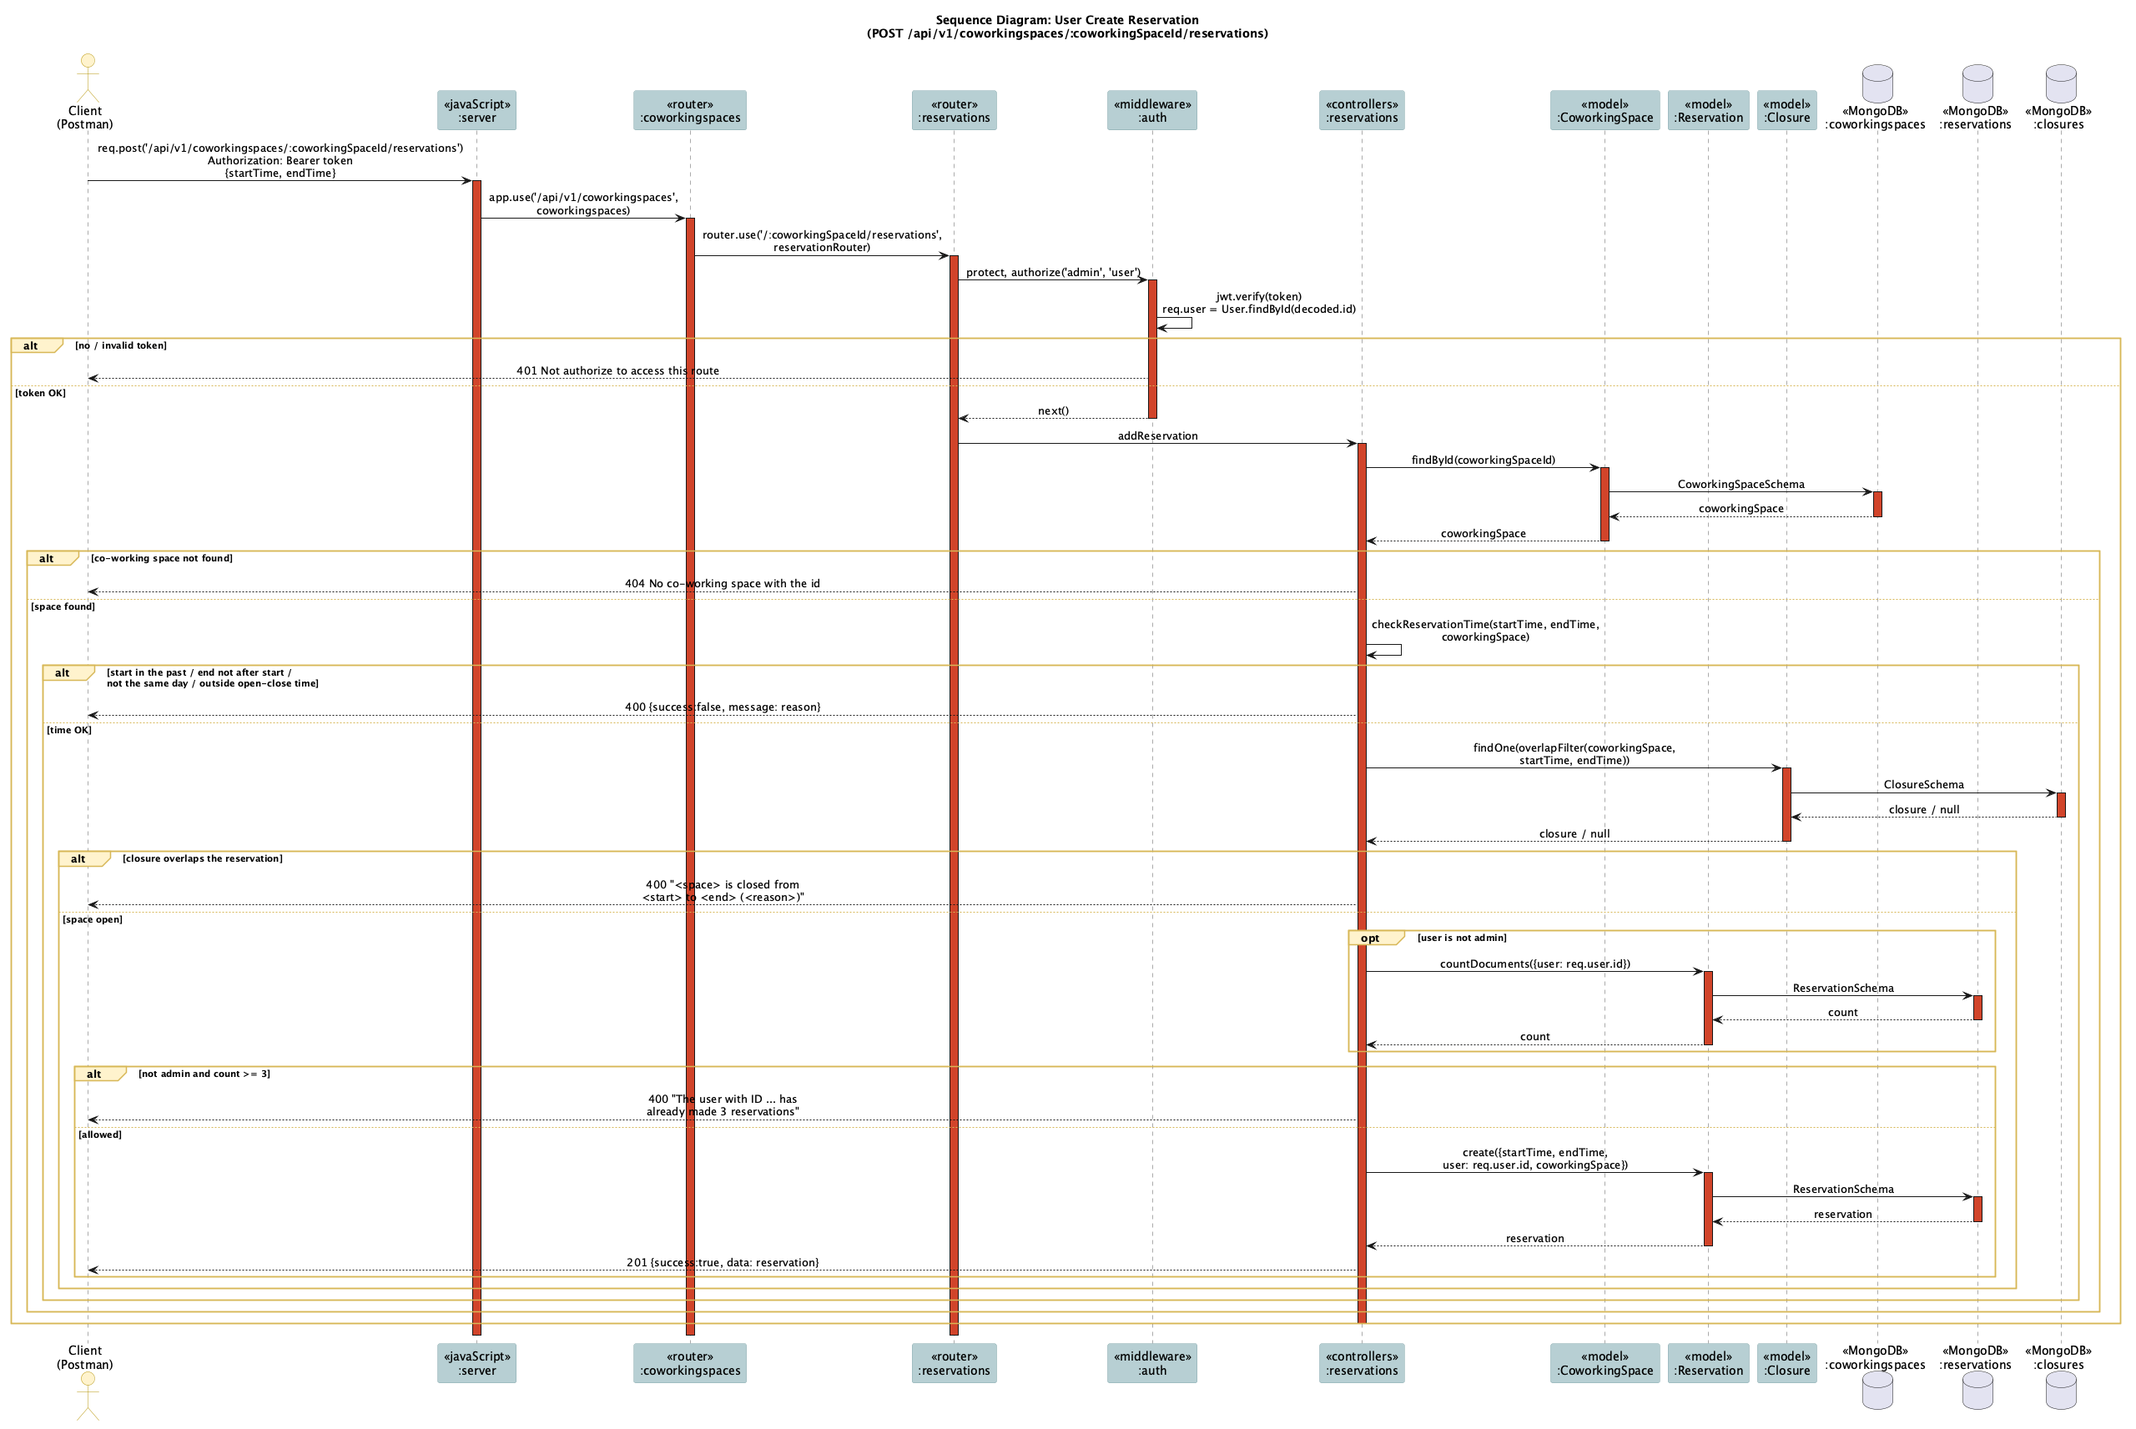
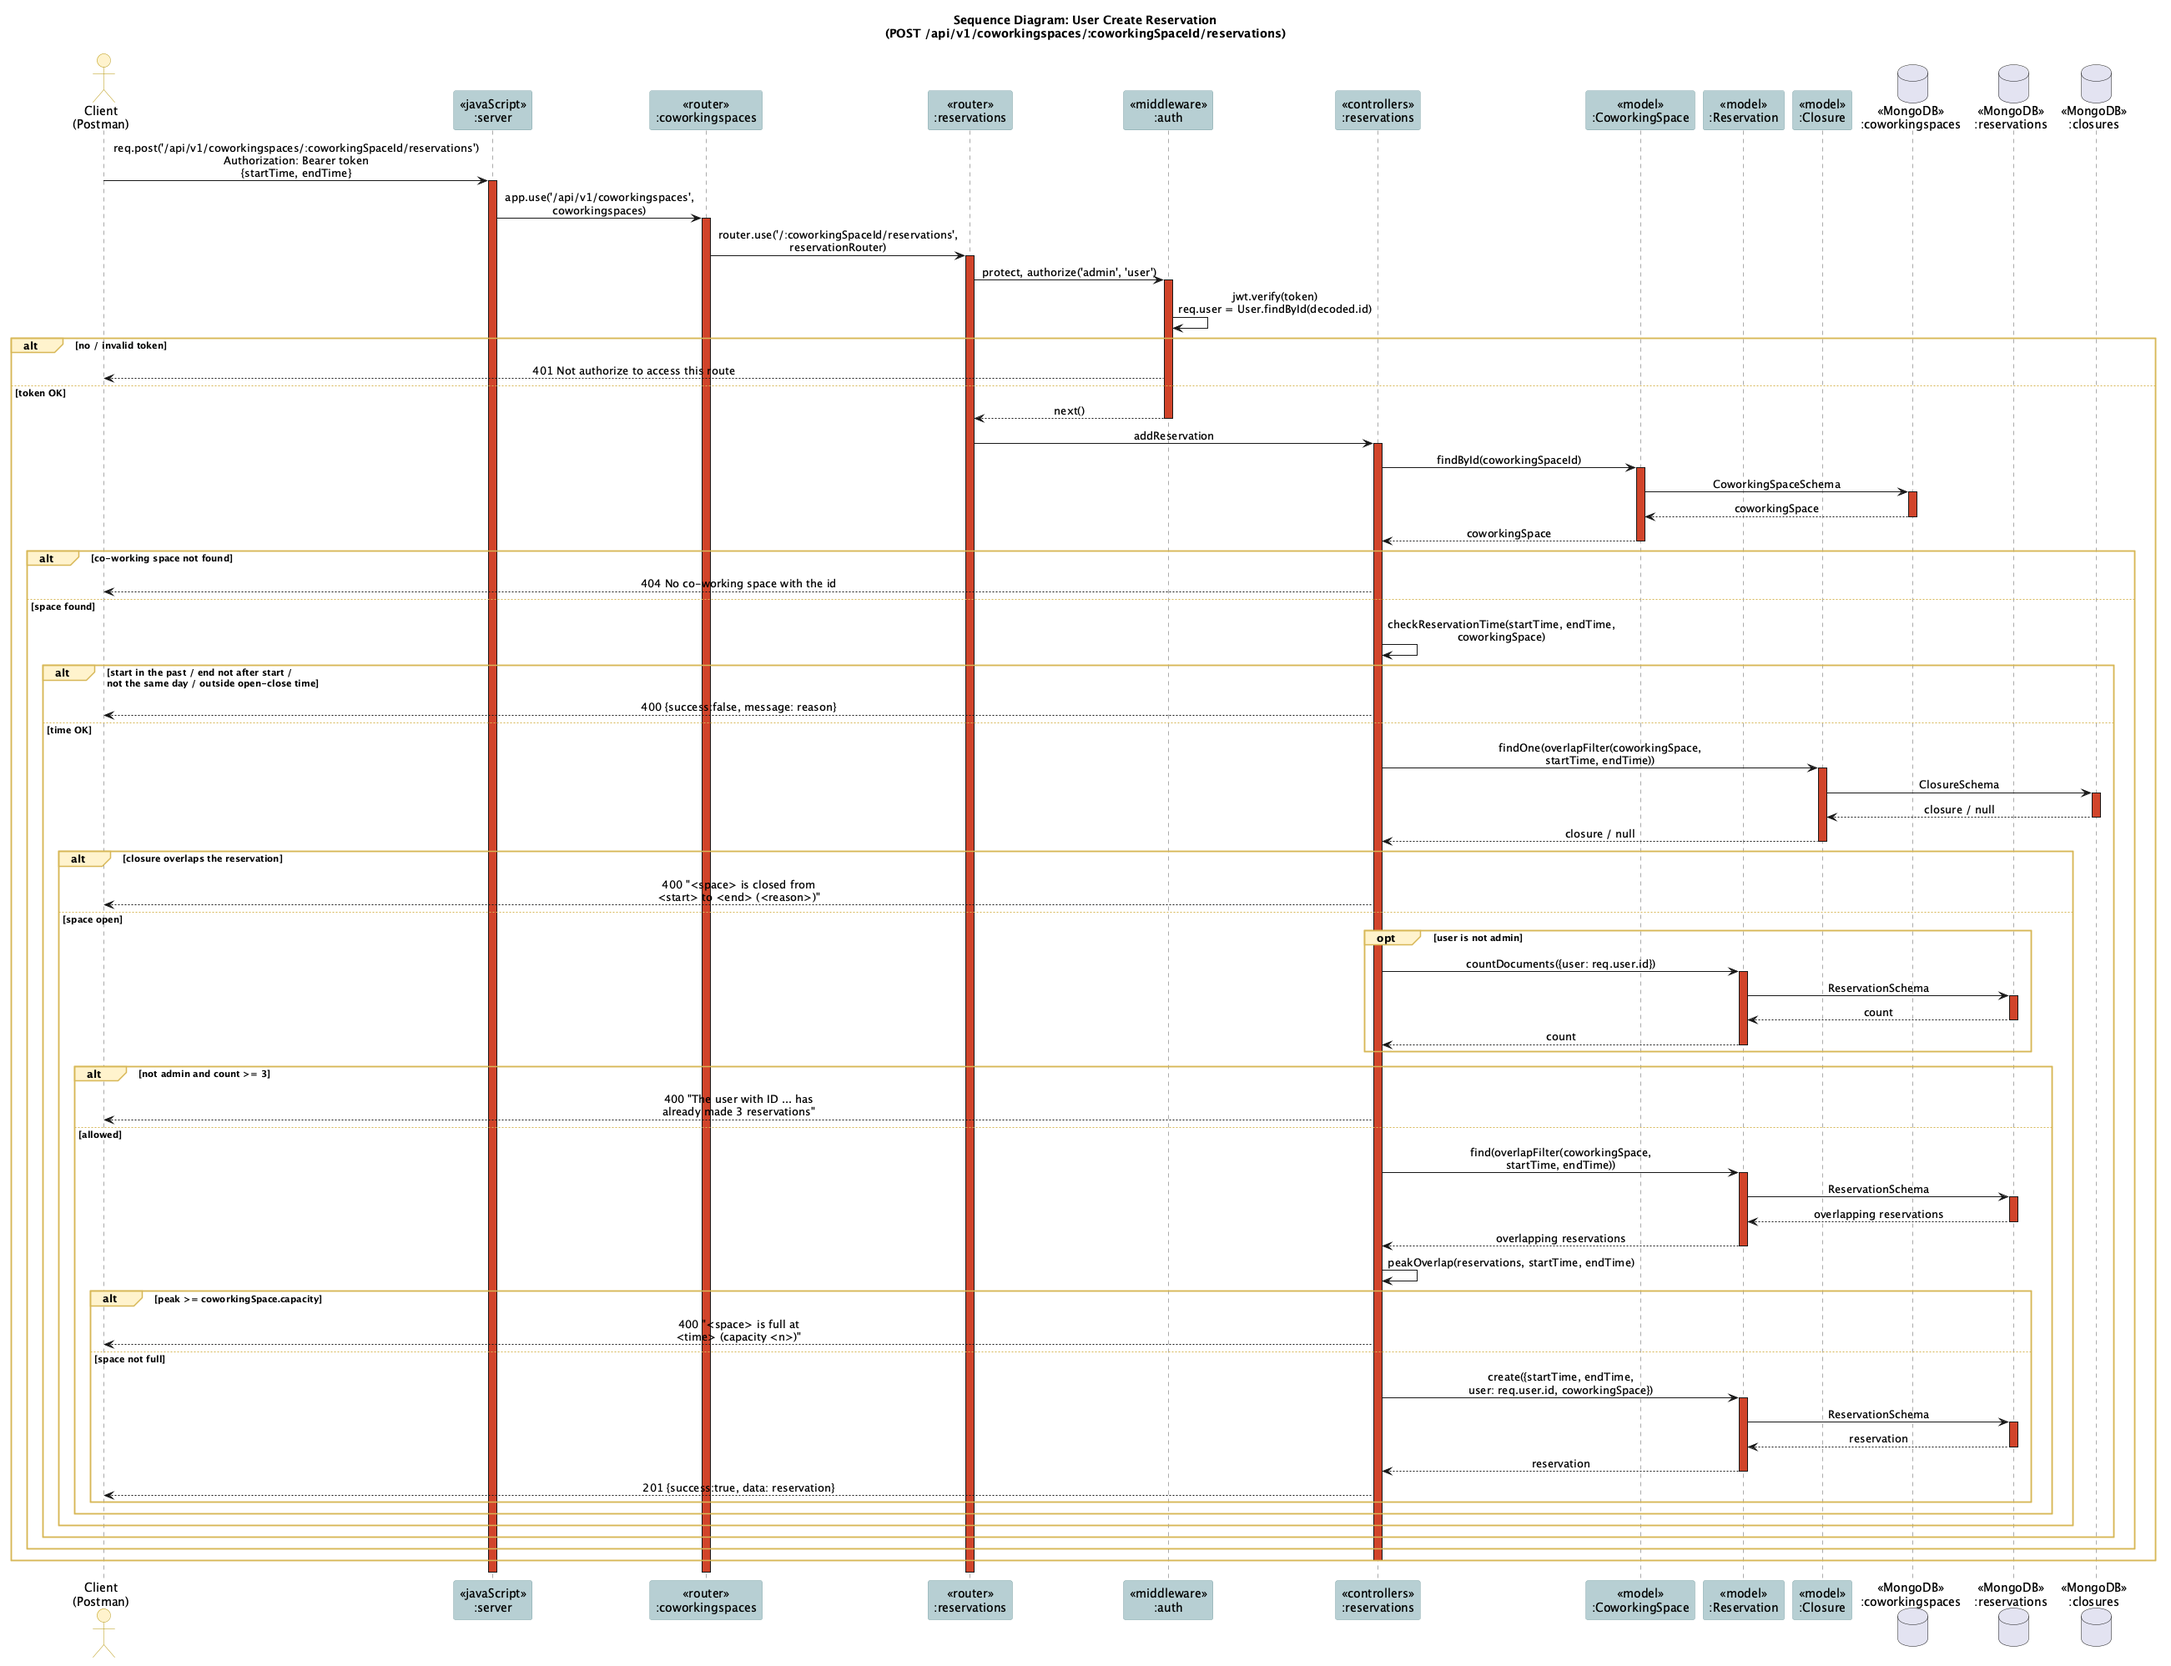
feat: add capacity to co-working spaces (#5)
* feat: add capacity to co-working spaces

* test: keep only the essential capacity tests

diff --git a/controllers/reservations.js b/controllers/reservations.js
@@ -4,6 +4,7 @@ const Closure = require("../models/Closure");
 const sendError = require("../utils/sendError");
 const { overlapFilter } = require("../utils/overlap");
 const { withSpaceLock } = require("../utils/spaceLock");
+const { findCapacityConflict } = require("../utils/capacity");
 const {
   checkReservationTime,
   formatBangkok,
@@ -151,17 +152,24 @@ exports.addReservation = async (req, res, next) => {
       }
     }
 
-    // The space must not be closed at any time during the reservation.
-    // The check and the create run under one lock (see utils/spaceLock.js).
+    // The space must not be closed or full at any time during the reservation.
+    // The checks and the create run under one lock (see utils/spaceLock.js).
     const result = await withSpaceLock(coworkingSpace._id, async (session) => {
-      const closureError = await findClosureConflict(
-        coworkingSpace,
-        startTime,
-        endTime,
-        session,
-      );
+      const conflict =
+        (await findClosureConflict(
+          coworkingSpace,
+          startTime,
+          endTime,
+          session,
+        )) ??
+        (await findCapacityConflict(
+          coworkingSpace,
+          startTime,
+          endTime,
+          session,
+        ));
 
-      if (closureError) return { error: closureError };
+      if (conflict) return { error: conflict };
 
       const [reservation] = await Reservation.create(
         [
@@ -233,17 +241,26 @@ exports.updateReservation = async (req, res, next) => {
       return res.status(400).json({ success: false, message: timeError });
     }
 
-    // The new space must not be closed at any time during the reservation.
-    // The check and the save run under one lock on the new space.
-    const closureError = await withSpaceLock(
+    // The new space must not be closed or full at any time during the
+    // reservation. This reservation does not count against the capacity.
+    // The checks and the save run under one lock on the new space.
+    const conflictError = await withSpaceLock(
       coworkingSpace._id,
       async (session) => {
-        const conflict = await findClosureConflict(
-          coworkingSpace,
-          startTime,
-          endTime,
-          session,
-        );
+        const conflict =
+          (await findClosureConflict(
+            coworkingSpace,
+            startTime,
+            endTime,
+            session,
+          )) ??
+          (await findCapacityConflict(
+            coworkingSpace,
+            startTime,
+            endTime,
+            session,
+            reservation._id,
+          ));
 
         if (conflict) return conflict;
 
@@ -255,8 +272,8 @@ exports.updateReservation = async (req, res, next) => {
       },
     );
 
-    if (closureError) {
-      return res.status(400).json({ success: false, message: closureError });
+    if (conflictError) {
+      return res.status(400).json({ success: false, message: conflictError });
     }
 
     await reservation.populate(populateSpace);

diff --git a/utils/capacity.js b/utils/capacity.js
@@ -1,0 +1,65 @@
+const Reservation = require("../models/Reservation");
+const { overlapFilter } = require("./overlap");
+const { formatBangkok } = require("./reservationTime");
+
+// The largest number of reservations that are active at the same time
+// inside [start, end), and the first time when that number starts.
+// A reservation that ends at time t and one that starts at t do not overlap,
+// so at the same time an end counts before a start.
+const peakOverlap = (reservations, start, end) => {
+  const events = [];
+
+  reservations.forEach((r) => {
+    const from = Math.max(r.startTime.getTime(), start.getTime());
+    const to = Math.min(r.endTime.getTime(), end.getTime());
+    events.push({ time: from, change: 1 }, { time: to, change: -1 });
+  });
+
+  events.sort((a, b) => a.time - b.time || a.change - b.change);
+
+  let active = 0;
+  let peak = 0;
+  let peakTime = null;
+
+  events.forEach((e) => {
+    active += e.change;
+    if (active > peak) {
+      peak = active;
+      peakTime = e.time;
+    }
+  });
+
+  return { peak, peakTime };
+};
+
+// Returns an error message when the space is full at some time in
+// [startTime, endTime), or null.
+// excludeId is the reservation that is being edited. It does not count.
+// Run it only after checkReservationTime, so that the dates are valid.
+// Run it inside withSpaceLock, with the same session as the write.
+exports.findCapacityConflict = async (
+  coworkingSpace,
+  startTime,
+  endTime,
+  session,
+  excludeId,
+) => {
+  // A space that was created before capacity existed has no limit
+  if (coworkingSpace.capacity == null) return null;
+
+  const start = new Date(startTime);
+  const end = new Date(endTime);
+
+  const filter = overlapFilter(coworkingSpace._id, start, end);
+  if (excludeId) filter._id = { $ne: excludeId };
+
+  const reservations = await Reservation.find(filter)
+    .select("startTime endTime")
+    .session(session);
+
+  const { peak, peakTime } = peakOverlap(reservations, start, end);
+
+  if (peak < coworkingSpace.capacity) return null;
+
+  return `${coworkingSpace.name} is full at ${formatBangkok(peakTime)} (capacity ${coworkingSpace.capacity})`;
+};

diff --git a/models/CoworkingSpace.js b/models/CoworkingSpace.js
@@ -33,6 +33,16 @@ const CoworkingSpaceSchema = new mongoose.Schema({
     required: [true, "Please add a close time"],
     match: [TIME_HHMM_REGEX, "Close time must be in HH:mm format (e.g. 20:00)"],
   },
+  // The maximum number of reservations that can overlap at the same time
+  capacity: {
+    type: Number,
+    required: [true, "Please add a capacity"],
+    min: [1, "Capacity must be at least 1"],
+    validate: {
+      validator: Number.isInteger,
+      message: "Capacity must be a whole number",
+    },
+  },
   // Written only by utils/spaceRating.js, after each review change.
   // averageRating is null when the space has no reviews.
   averageRating: {

diff --git a/tests/closure-race.js b/tests/closure-race.js
@@ -46,6 +46,7 @@ const runRounds = async (email, created) => {
     tel: "02-123-4567",
     openTime: "08:00",
     closeTime: "20:00",
+    capacity: 1,
   });
   if (space.status !== 201) throw new Error(`create space: ${space.status}`);
   const spaceId = space.json.data._id;

diff --git a/README.md b/README.md
@@ -8,7 +8,7 @@ Term project #6 for **2110503 Software Development Practice**: a REST API that l
 
 1. A user registers with a name, telephone number (Thai format), email and password.
 2. A registered user logs in with email and password, and can log out.
-3. After logging in, a user can reserve up to **3** times by choosing a date (with a start and end time) and a co-working space. The co-working space list is provided; each space has a name, address, telephone number and open-close time.
+3. After logging in, a user can reserve up to **3** times by choosing a date (with a start and end time) and a co-working space. The co-working space list is provided; each space has a name, address, telephone number, open-close time and capacity.
 4. A user can view, edit and delete **their own** reservations.
 5. An admin can view, edit and delete **any** reservation.
 
@@ -42,8 +42,8 @@ Base URL: `http://localhost:5050/api/v1`. Private routes need `Authorization: Be
 | GET | `/auth/logout` | Public | Clear the token cookie |
 | GET | `/coworkingspaces` | Public | List spaces (supports `select`, `sort`, `page`, `limit`, `gt/gte/lt/lte/in` filters) |
 | GET | `/coworkingspaces/:id` | Public | One space |
-| POST | `/coworkingspaces` | Admin | Create a space |
-| PUT | `/coworkingspaces/:id` | Admin | Update a space |
+| POST | `/coworkingspaces` | Admin | Create a space (`name`, `address`, `tel`, `openTime`, `closeTime`, `capacity`) |
+| PUT | `/coworkingspaces/:id` | Admin | Update a space, for example its `capacity` |
 | DELETE | `/coworkingspaces/:id` | Admin | Delete a space, its reservations, its closures and its reviews |
 | POST | `/coworkingspaces/:coworkingSpaceId/reservations` | User/Admin | Create a reservation (`startTime`, `endTime`) |
 | GET | `/coworkingspaces/:coworkingSpaceId/reservations` | Private | Reservations at one space (own only for users) |
@@ -63,6 +63,12 @@ Base URL: `http://localhost:5050/api/v1`. Private routes need `Authorization: Be
 | GET | `/reviews` | Public | All reviews, with the reviewer name and the space |
 | GET | `/reviews/:id` | Public | One review |
 | DELETE | `/reviews/:id` | Admin | Delete a review |
+
+Example co-working space body:
+
+```json
+{ "name": "Siam Co-Work Hub", "address": "254 Phayathai Rd, Pathum Wan, Bangkok 10330", "tel": "02-123-4567", "openTime": "08:00", "closeTime": "20:00", "capacity": 20 }
+```
 
 Example reservation body (times are Bangkok time):
 
@@ -84,7 +90,8 @@ Example review body:
 
 ### Rules and validation
 
-- **Reservation:** must start in the future, end after it starts, start and end on the same day, and fit inside the space's `openTime`-`closeTime`. It must not overlap a closure of its space. A general user can hold at most 3 reservations; admins have no limit.
+- **Reservation:** must start in the future, end after it starts, start and end on the same day, and fit inside the space's `openTime`-`closeTime`. It must not overlap a closure of its space, and the space must not be full at any time during it. A general user can hold at most 3 reservations; admins have no limit.
+- **Capacity:** the maximum number of reservations at one space that can overlap at the same time. It is a whole number, at least 1, and it is required when a space is created. A space is full at a time when that many reservations are active. A new or edited reservation is rejected when the space is full at any time during it (the error gives the first full time). An edited reservation does not count against its own capacity. Reservations that only touch (12:00-12:00) do not overlap. A lower capacity does not change the reservations that already exist. The check and the write run under the same space lock as the closure checks.
 - **Closure:** a period when one space is closed, for example for maintenance. The end must be later than the start. A closure must not overlap a reservation at its space (the error gives the number of reservations). A `PUT` cannot move a closure to a different space. Two periods overlap only when one starts before the other ends, so periods that only touch (12:00-12:00) are allowed. The overlap rules apply to admins too. The overlap check and the write run in one MongoDB transaction that locks the space, so two requests at the same time cannot create an overlap.
 - **Review:** only the owner of a reservation can review it, and only after the reservation ends. A reservation can have one review. The rating is a whole number from 1 to 5, and the comment is required (at most 1000 characters). The space comes from the reservation. Only the admin can delete a review. A review stays when its reservation is deleted. A review shows only the reviewer's name.
 - **Rating of a space:** each space has `averageRating` (rounded to 2 decimals, `null` when there are no reviews) and `reviewCount`. The API calculates them again after each review create or delete, under the same space lock as the closure checks. A client cannot set them in a space `POST` or `PUT`.
@@ -106,7 +113,7 @@ npm run test:api:report     # also writes newman/report.html
 npm run test:race           # concurrent reservation + closure requests (about 15 s)
 ```
 
-The collection creates its own admin, user and spaces with unique names for each run, and deletes the spaces at the end, so it can be run repeatedly. Current result: 74 requests, 134 assertions, all passing.
+The collection creates its own admin, user and spaces with unique names for each run, and deletes the spaces at the end, so it can be run repeatedly. Current result: 77 requests, 139 assertions, all passing.
 
 The review folders make a reservation that ends a few seconds after it starts, and wait for it to end. A reservation must start and end on the same day, so these folders fail near midnight Bangkok time.
 
@@ -137,6 +144,7 @@ The review folders make a reservation that ends a few seconds after it starts, a
 | 14 | User Review Co-working Space | `14 User Review Co-working Space` |
 | 14+ | Check Review Conditions | `14+ Check Review Conditions` |
 | 15 | Admin Manage Reviews | `15 Admin Manage Reviews` |
+| 16 | Admin Set Capacity | `16 Admin Set Capacity` |
 | – | Remove demo spaces | `99 Cleanup` |
 
 ## Diagrams
@@ -155,7 +163,7 @@ The first commit is VacQ as it was, so `git diff` against it (or the pull reques
 
 | Area | VacQ | This project |
 |---|---|---|
-| Resources | `Hospital`, `Appointment` | `CoworkingSpace` (name, address, tel, openTime, closeTime), `Reservation` (startTime, endTime) |
+| Resources | `Hospital`, `Appointment` | `CoworkingSpace` (name, address, tel, openTime, closeTime, capacity), `Reservation` (startTime, endTime) |
 | Routes | `/hospitals`, `/appointments` | `/coworkingspaces`, `/reservations`, nested `/coworkingspaces/:id/reservations` |
 | Registration | name, email, password | adds required **Thai telephone number**; errors explain what is wrong (invalid tel, duplicate email) |
 | Create rules | max 3 appointments | max 3, plus future start, end after start, same day, within open-close hours |

diff --git a/EXTRA-REQUIREMENTS.md b/EXTRA-REQUIREMENTS.md
@@ -14,3 +14,9 @@ Note: IDs are for verbal referencing only. Do not persist them anywhere. Do not 
 - \[x\] SM-1 The system shall allow the admin to create/read/update/delete closure periods for a co-working space (e.g., for maintenance)
 - \[x\] SM-2 The system shall reject new reservations or edits to existing reservations that overlap a closure period.
 - \[x\] SM-3 The system shall reject new closure periods that overlap with existing reservations.
+- \[x\] SM-4 The system shall allow the admin to specify co-working space capacity.
+- \[x\] SM-5 The system shall reject new reservations if the co-working space is full.
+
+## Authentication
+
+- \[ \] AU-1 The system shall allow unregistered user to use OAuth2 login flow as an alternative way to authenticate.
